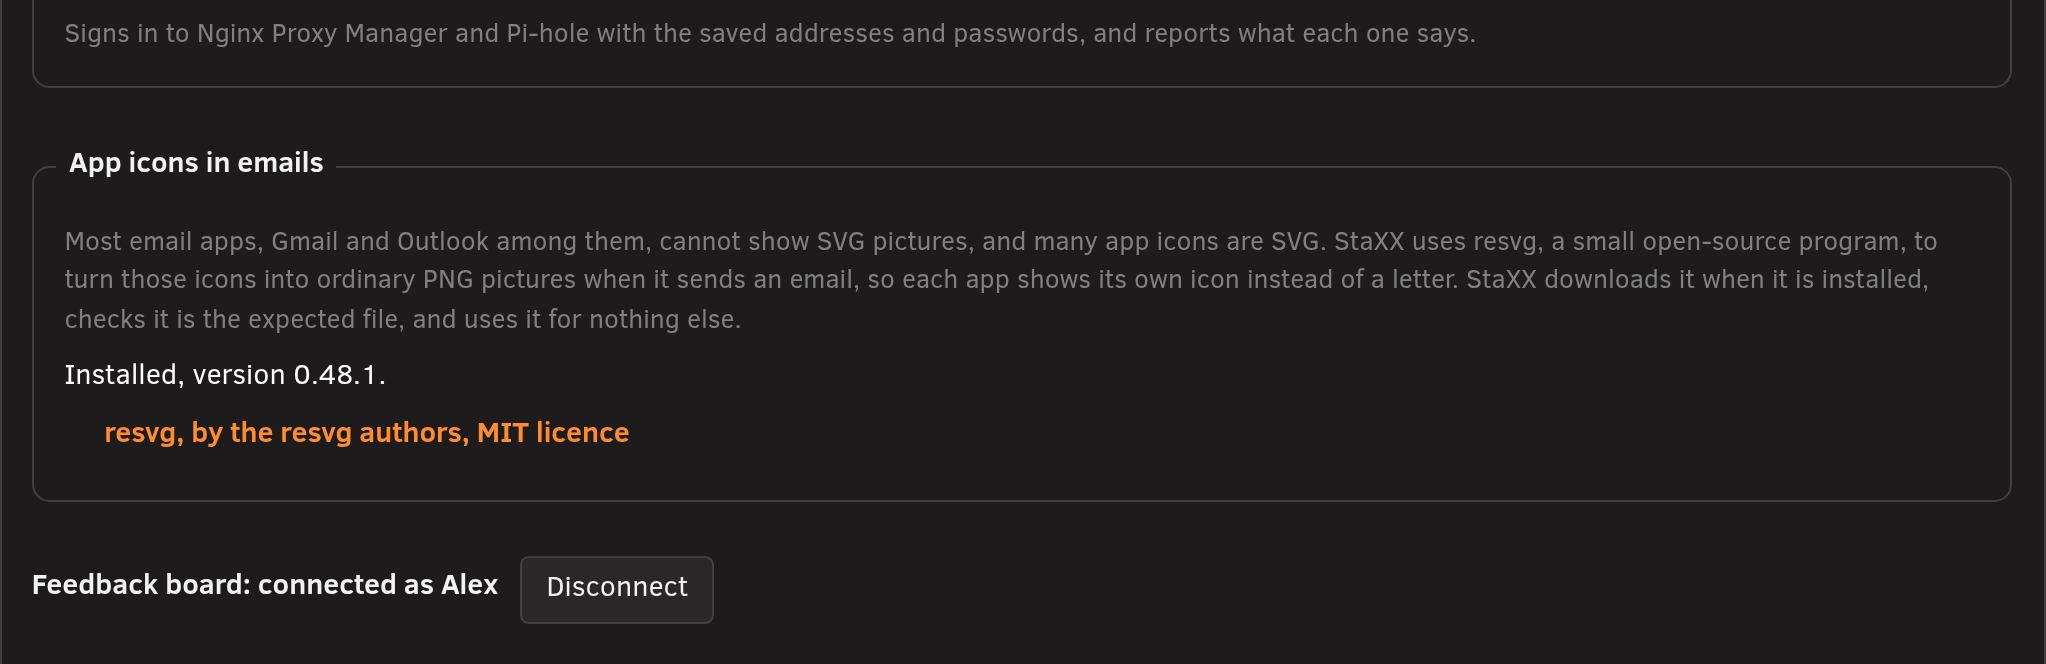
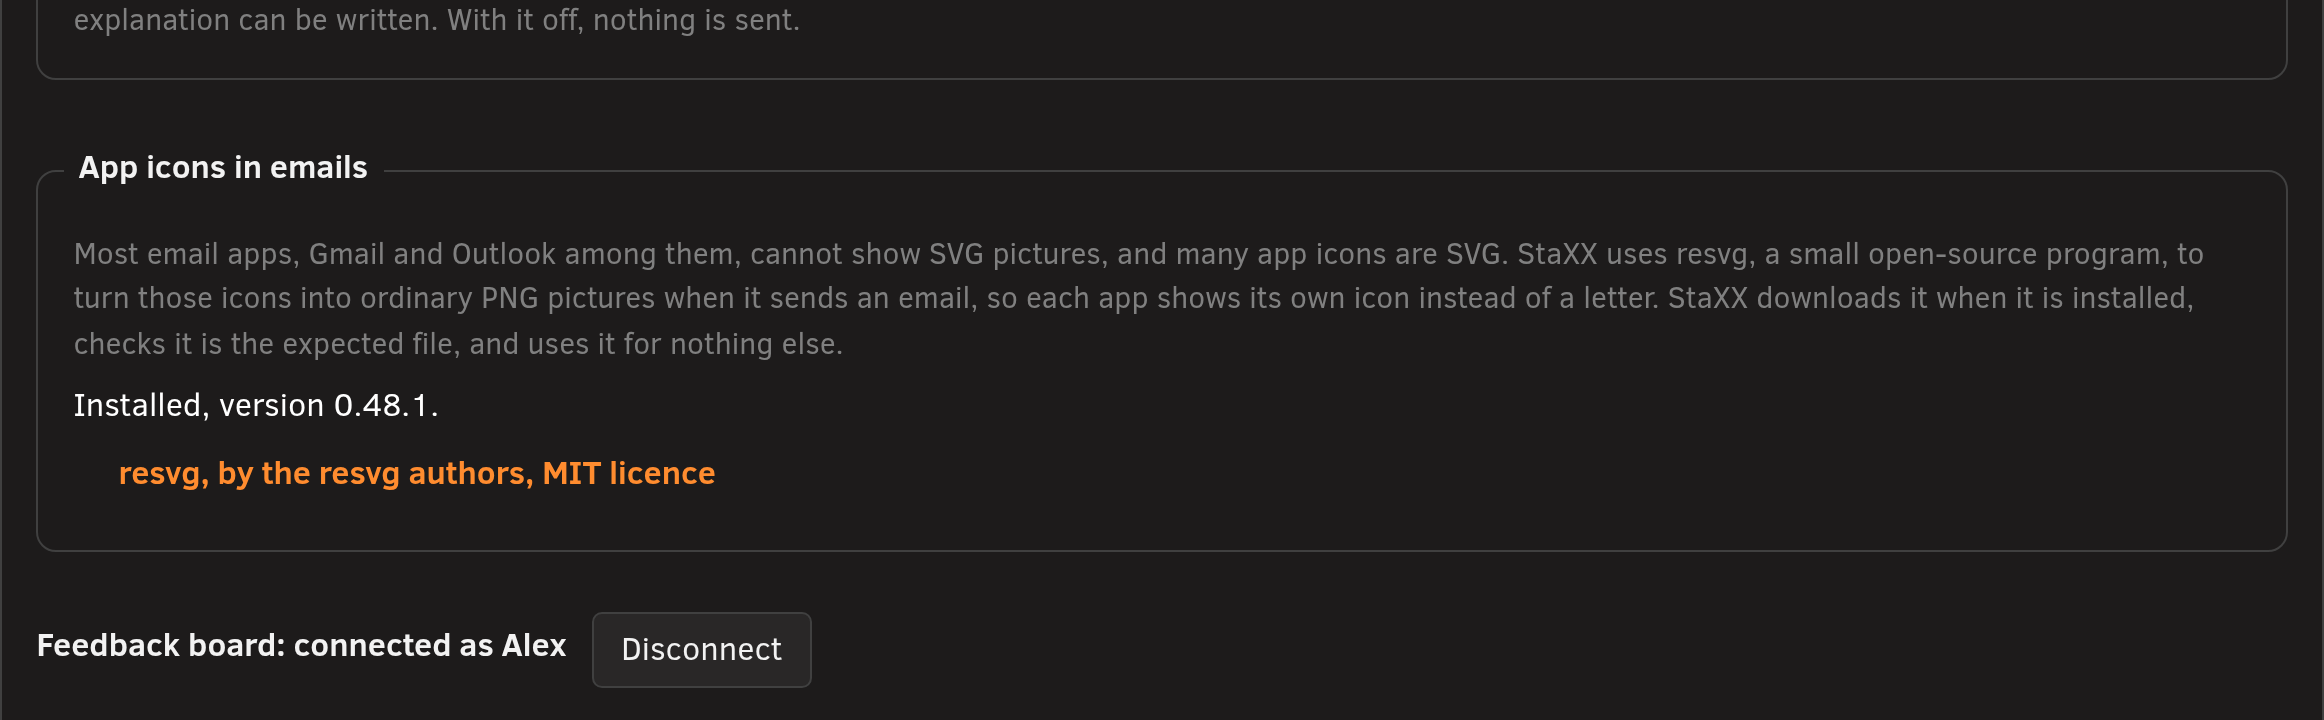
Guide: the Integrations page follows the tab top to bottom, with Proxy and DNS as one section, and its pictures re-taken to match (PLAN_231)
Claude-Session: https://claude.ai/code/session_01P1YRrWifJ1tpeExJ9ovCp1

diff --git a/docs/guide/settings-integrations.md b/docs/guide/settings-integrations.md
@@ -3,11 +3,11 @@
 <!-- index: 85 | Docker Hub sign-in, your own registries, StaXXCrypt, connecting to Nginx Proxy Manager and Pi-hole, and app icons in emails. -->
 
 This tab, in **Settings**, holds sign-in details for Docker Hub, your own image registries, the
-StaXXCrypt hashing container, and Nginx Proxy Manager and Pi-hole. It also shows whether StaXX
+StaXXCrypt hashing container, and the Proxy and DNS connection to Nginx Proxy Manager and Pi-hole. It also shows whether StaXX
 can put SVG app icons in its emails.
 
 ![The Integrations tab in full: the Docker Hub access box with its Username and Access token fields, the Registries you run yourself box with its address field and Add button, and the StaXXCrypt hashing container box with its dropdown, its state line, the four password formats each marked passes, the What is inside it list and the Show the recipe link](../images/guide/settings-registries-tab.png)
-![The lower part of the Integrations tab: the Nginx Proxy Manager box, the Pi-hole box, the Allow insecure connections switch, the Test connection button, the App icons in emails box reading Installed, version 0.48.1 with its resvg link, and the Feedback board line reading connected as Alex with a Disconnect button](../images/guide/settings-integrations-proxy.png)
+![The lower part of the Integrations tab: the Proxy and DNS box holding the Nginx Proxy Manager box, the Pi-hole box, the Allow insecure connections switch and the Test connection button, then the Error explanations switch, the App icons in emails box reading Installed, version 0.48.1 with its resvg link, and the Feedback board line reading connected as Alex with a Disconnect button](../images/guide/settings-integrations-proxy.png)
 
 ## Docker Hub access
 
@@ -36,7 +36,12 @@ recipe itself changes, so matching numbers tell you the running container matche
 StaXX ships today. When an update to StaXX brings a new recipe, the number changes, the container
 is rebuilt from it, and the old one is removed. See [making a password hash](passwords-and-hashes.md).
 
-## Nginx Proxy Manager
+## Proxy and DNS
+
+These four settings connect StaXX to Nginx Proxy Manager and Pi-hole. See
+[Proxy and DNS](proxy-and-dns.md) for using them with your stacks.
+
+### Nginx Proxy Manager
 
 | Setting | What it does |
 |---|---|
@@ -44,30 +49,14 @@ is rebuilt from it, and the old one is removed. See [making a password hash](pas
 | Nginx Proxy Manager email | The email you sign in to Nginx Proxy Manager with. |
 | Nginx Proxy Manager password | The password you sign in to Nginx Proxy Manager with. |
 
-## Pi-hole
+### Pi-hole
 
 | Setting | What it does |
 |---|---|
 | Pi-hole address | The address of your Pi-hole. With it filled in, StaXX can add a local DNS name for an app, pointing at Nginx Proxy Manager. |
 | Pi-hole app password | An app password made in Pi-hole's own Settings → Web interface / API, under Enable new app password. Leave this blank if your Pi-hole has no admin password. |
 
-## Error explanations
-
-![The Error explanations box on the Integrations tab: the Send Docker errors StaXX cannot explain switch turned on, with its two-sentence explanation under it](../images/guide/settings-integrations-error-explanations.png)
-
-| Setting | What it does |
-|---|---|
-| Send Docker errors StaXX cannot explain | With this on, StaXX sends Docker Compose's message, with names, paths and addresses taken out, the first time it meets one it cannot explain, so an explanation can be written. With it off, nothing is sent. |
-
-New explanations reach StaXX once a day, whichever way this is set.
-
-## Feedback board
-
-| Setting | What it does |
-|---|---|
-| Feedback board | Shows the account you are connected as. **Disconnect** ends the connection. When you are not connected it shows **Connect** instead. See [sending feedback](sending-feedback.md). |
-
-## Allow insecure connections
+### Allow insecure connections
 
 With this on, StaXX is allowed to reach Nginx Proxy Manager and Pi-hole over a plain,
 unencrypted connection, or over an encrypted one without checking that the address really
@@ -75,20 +64,34 @@ belongs to them. Anyone able to watch your network traffic could then read their
 another device could pretend to be one of them. With it off, StaXX only connects to them when the
 connection is both encrypted and verified.
 
-## Test connection
+### Check the connection
 
 Press **Test connection** to sign in to Nginx Proxy Manager and Pi-hole with the addresses and
 passwords you have saved, and see what each one says. Save your changes first.
 
-See [Proxy and DNS](proxy-and-dns.md) for using Nginx Proxy Manager and Pi-hole with your stacks.
+## Error explanations
+
+![The Error explanations box on the Integrations tab: the Send Docker errors StaXX cannot explain switch turned on, with its two-sentence explanation under it, between the foot of the Proxy and DNS box above and the App icons in emails box below](../images/guide/settings-integrations-error-explanations.png)
+
+| Setting | What it does |
+|---|---|
+| Send Docker errors StaXX cannot explain | With this on, StaXX sends Docker Compose's message, with names, paths and addresses taken out, the first time it meets one it cannot explain, so an explanation can be written. With it off, nothing is sent. |
+
+New explanations reach StaXX once a day, whichever way this is set.
 
 ## App icons in emails
 
-![The App icons in emails box on the Integrations tab: its paragraph about SVG icons and resvg, the line Installed, version 0.48.1, and the link resvg, by the resvg authors, MIT licence, with the foot of the Check the connection box above and the Feedback board line below](../images/guide/settings-integrations-app-icons.png)
+![The App icons in emails box on the Integrations tab: its paragraph about SVG icons and resvg, the line Installed, version 0.48.1, and the link resvg, by the resvg authors, MIT licence, with the foot of the Error explanations box above and the Feedback board line below](../images/guide/settings-integrations-app-icons.png)
 
 StaXX installs a small program, resvg, that turns SVG app icons into pictures for its emails.
 This box shows whether it is installed, and links to the resvg project. While it reads
 **Not installed**, an app with an SVG icon shows a letter in its emails.
+
+## Feedback board
+
+| Setting | What it does |
+|---|---|
+| Feedback board | Shows the account you are connected as. **Disconnect** ends the connection. When you are not connected it shows **Connect** instead. See [sending feedback](sending-feedback.md). |
 
 ## Terms used here
 

diff --git a/docs/guide/proxy-and-dns.md b/docs/guide/proxy-and-dns.md
@@ -16,9 +16,9 @@ Manager; Pi-hole is optional.
 
 ## Setting up the connection
 
-![The Integrations tab showing the Nginx Proxy Manager box with an example address and email, the Pi-hole box with an example address, Allow insecure connections switched on, the Test connection button, the App icons in emails box and the Feedback board line](../images/guide/settings-integrations-proxy.png)
+![The Integrations tab showing the Proxy and DNS box: the Nginx Proxy Manager box with an example address and email, the Pi-hole box with an example address, Allow insecure connections switched on and the Test connection button; below it the Error explanations, App icons in emails and Feedback board lines](../images/guide/settings-integrations-proxy.png)
 
-Under **Settings**, on the **Integrations** tab, fill in the address of Nginx Proxy Manager's admin page
+Under **Settings**, on the **Integrations** tab, in the **Proxy and DNS** box, fill in the address of Nginx Proxy Manager's admin page
 (the one on port 81) and the email and password you sign in with there. Fill in Pi-hole's address too if
 you want local DNS names as well. Press **Save**, then **Test connection** to check both.
 
